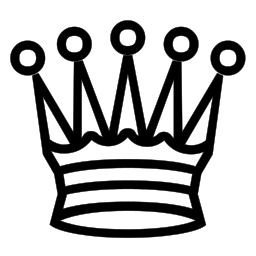
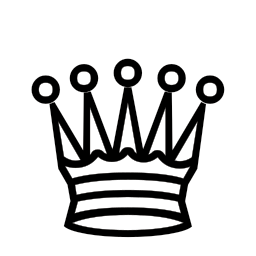
Classic pieces: smaller and centred so they sit inside their squares
Claude-Session: https://claude.ai/code/session_01GrAMtGcWzd7YwtEJJXTaDz

diff --git a/board-theme.js b/board-theme.js
@@ -6,7 +6,7 @@
  */
 (() => {
   'use strict';
-  const KEY = 'chesslab.boardTheme', PKEY = 'chesslab.pieceSet', V = 8;
+  const KEY = 'chesslab.boardTheme', PKEY = 'chesslab.pieceSet', V = 10;
   const BASE = new URL('chess-lab/pieces/', document.currentScript ? document.currentScript.src : location.href).href;
   const THEMES = [
     { id: 'classic', name: 'Classic Green', l: '#eed5a4', d: '#355a31' },
